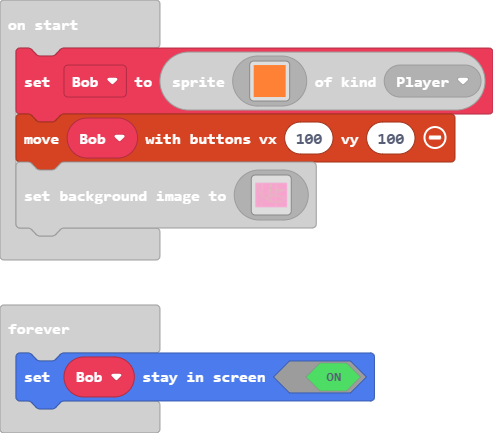
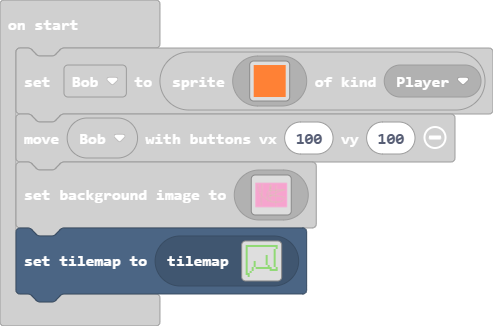
Update main.blocks, main.ts, tilemap.g.jres, tilemap.g.ts

diff --git a/tilemap.g.ts b/tilemap.g.ts
@@ -3,6 +3,50 @@ namespace myTiles {
     //% fixedInstance jres blockIdentity=images._tile
     export const transparency16 = image.ofBuffer(hex``);
 
+    helpers._registerFactory("tilemap", function(name: string) {
+        switch(helpers.stringTrim(name)) {
+            case "level1":
+            case "level1":return tiles.createTilemap(hex`1000100000000000000000000000000000000000000000000000000000000000000000000000000000000000000000000000000000000000000000000000000000000000000000000000000000000000000000000000000000000000000000000000000000000000000000000000000000000000000000000000000000000000000000000000000000000000000000000000000000000000000000000000000000000000000000000000000000000000000000000000000000000000000000000000000000000000000000000000000000000000000000000000000000000000000000000000000000000000000000000000000000000000000000000000000000000000`, img`
+. . . . . . . . . . . . . . . . 
+. . . . . . . . . . . . . . . . 
+. . . . . . . . . . . . . . . . 
+. . . . . . . . . . . . . . . . 
+. . . . . . . . . . . . . . . . 
+. . . . . . . . . . . . . . . . 
+. . . . . . . . . . . . . . . . 
+. . . . . . . . . . . . . . . . 
+. . . . . . . . . . . . . . . . 
+. . . . . . . . . . . . . . . . 
+. . . . . . . . . . . . . . . . 
+. . . . . . . . . . . . . . . . 
+. . . . . . . . . . . . . . . . 
+. . . . . . . . . . . . . . . . 
+. . . . . . . . . . . . . . . . 
+. . . . . . . . . . . . . . . . 
+`, [myTiles.transparency16], TileScale.Sixteen);
+            case "level2":
+            case "level2":return tiles.createTilemap(hex`1000100001010101010101010101010101010101010000000000000000000000000000010100000000000000000000000000010001000000000000000000000000000100010000000000000000000000000001000100000000000000000001000000010001000000000000000000010000000100010000000000000000000100000001000100000001000000000001000000010001000000010000000000010000000100010000000100000000000001000001000100000100010101010101010100000101000001000000000000000001010101010001000000000000000000000000000101000000000000000000000000000000010000000000000000000000000000`, img`
+2 2 2 2 2 2 2 2 2 2 2 2 2 2 2 2 
+2 . . . . . . . . . . . . . . 2 
+2 . . . . . . . . . . . . . 2 . 
+2 . . . . . . . . . . . . . 2 . 
+2 . . . . . . . . . . . . . 2 . 
+2 . . . . . . . . . 2 . . . 2 . 
+2 . . . . . . . . . 2 . . . 2 . 
+2 . . . . . . . . . 2 . . . 2 . 
+2 . . . 2 . . . . . 2 . . . 2 . 
+2 . . . 2 . . . . . 2 . . . 2 . 
+2 . . . 2 . . . . . . 2 . . 2 . 
+2 . . 2 . 2 2 2 2 2 2 2 2 . . 2 
+2 . . 2 . . . . . . . . 2 2 2 2 
+2 . 2 . . . . . . . . . . . . . 
+2 2 . . . . . . . . . . . . . . 
+. 2 . . . . . . . . . . . . . . 
+`, [myTiles.transparency16,sprites.castle.tileGrass2], TileScale.Sixteen);
+        }
+        return null;
+    })
+
     helpers._registerFactory("tile", function(name: string) {
         switch(helpers.stringTrim(name)) {
             case "transparency16":return transparency16;

diff --git a/main.ts b/main.ts
@@ -139,6 +139,7 @@ scene.setBackgroundImage(img`
     3333333333333333333333333333333333333333333333333333333333333333333333333333333333333333333333333333333333333333333333333333333333333333333333333333333333333333
     3333333333333333333333333333333333333333333333333333333333333333333333333333333333333333333333333333333333333333333333333333333333333333333333333333333333333333
     `)
+tiles.setCurrentTilemap(tilemap`level2`)
 forever(function () {
     Bob.setStayInScreen(true)
 })
